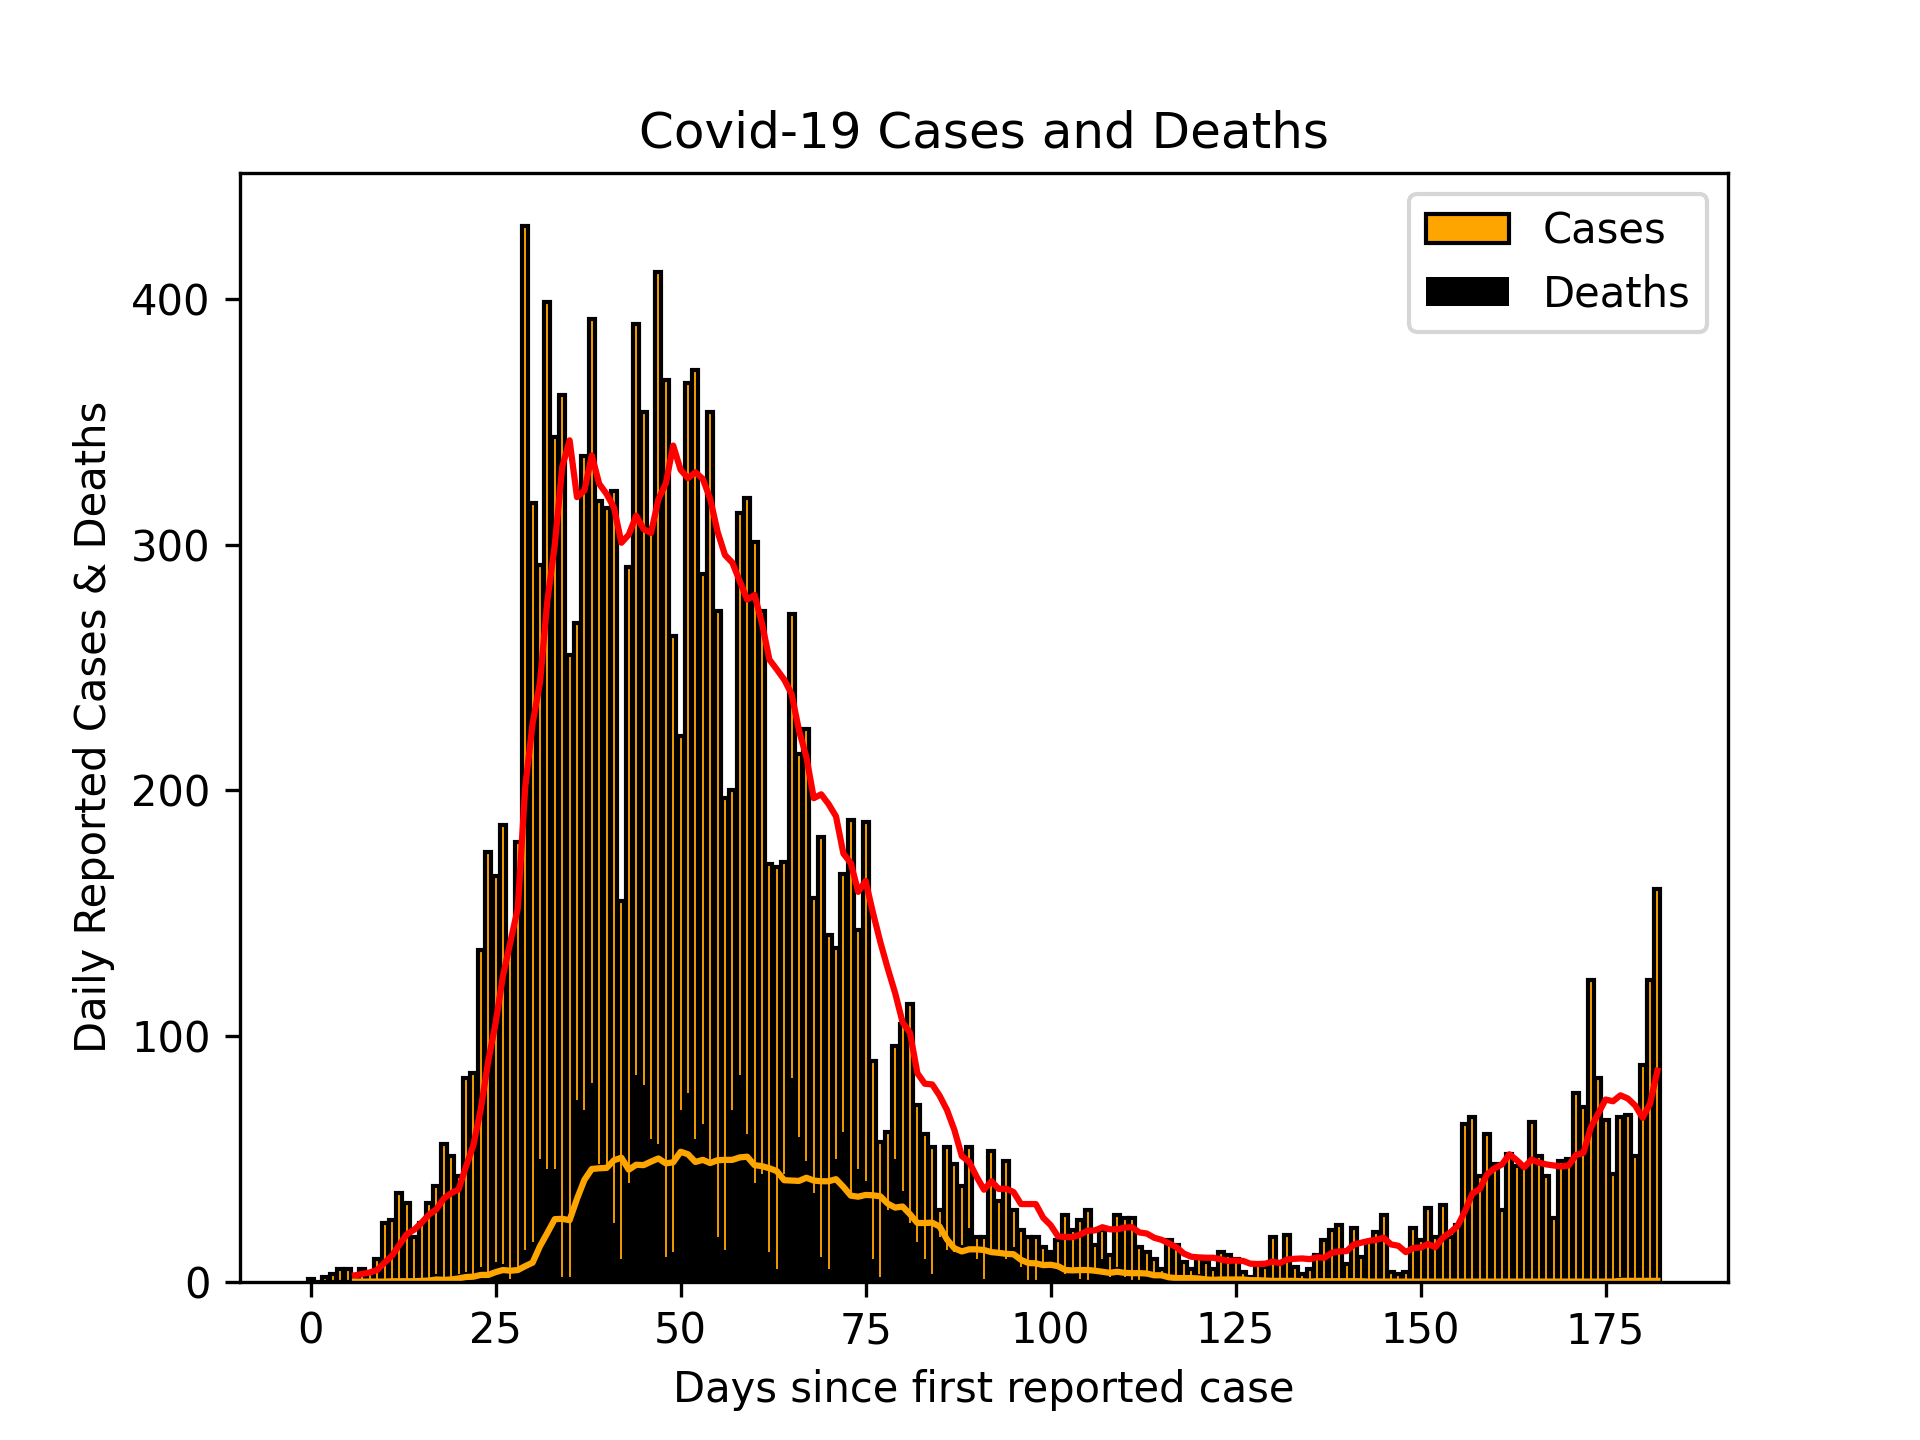
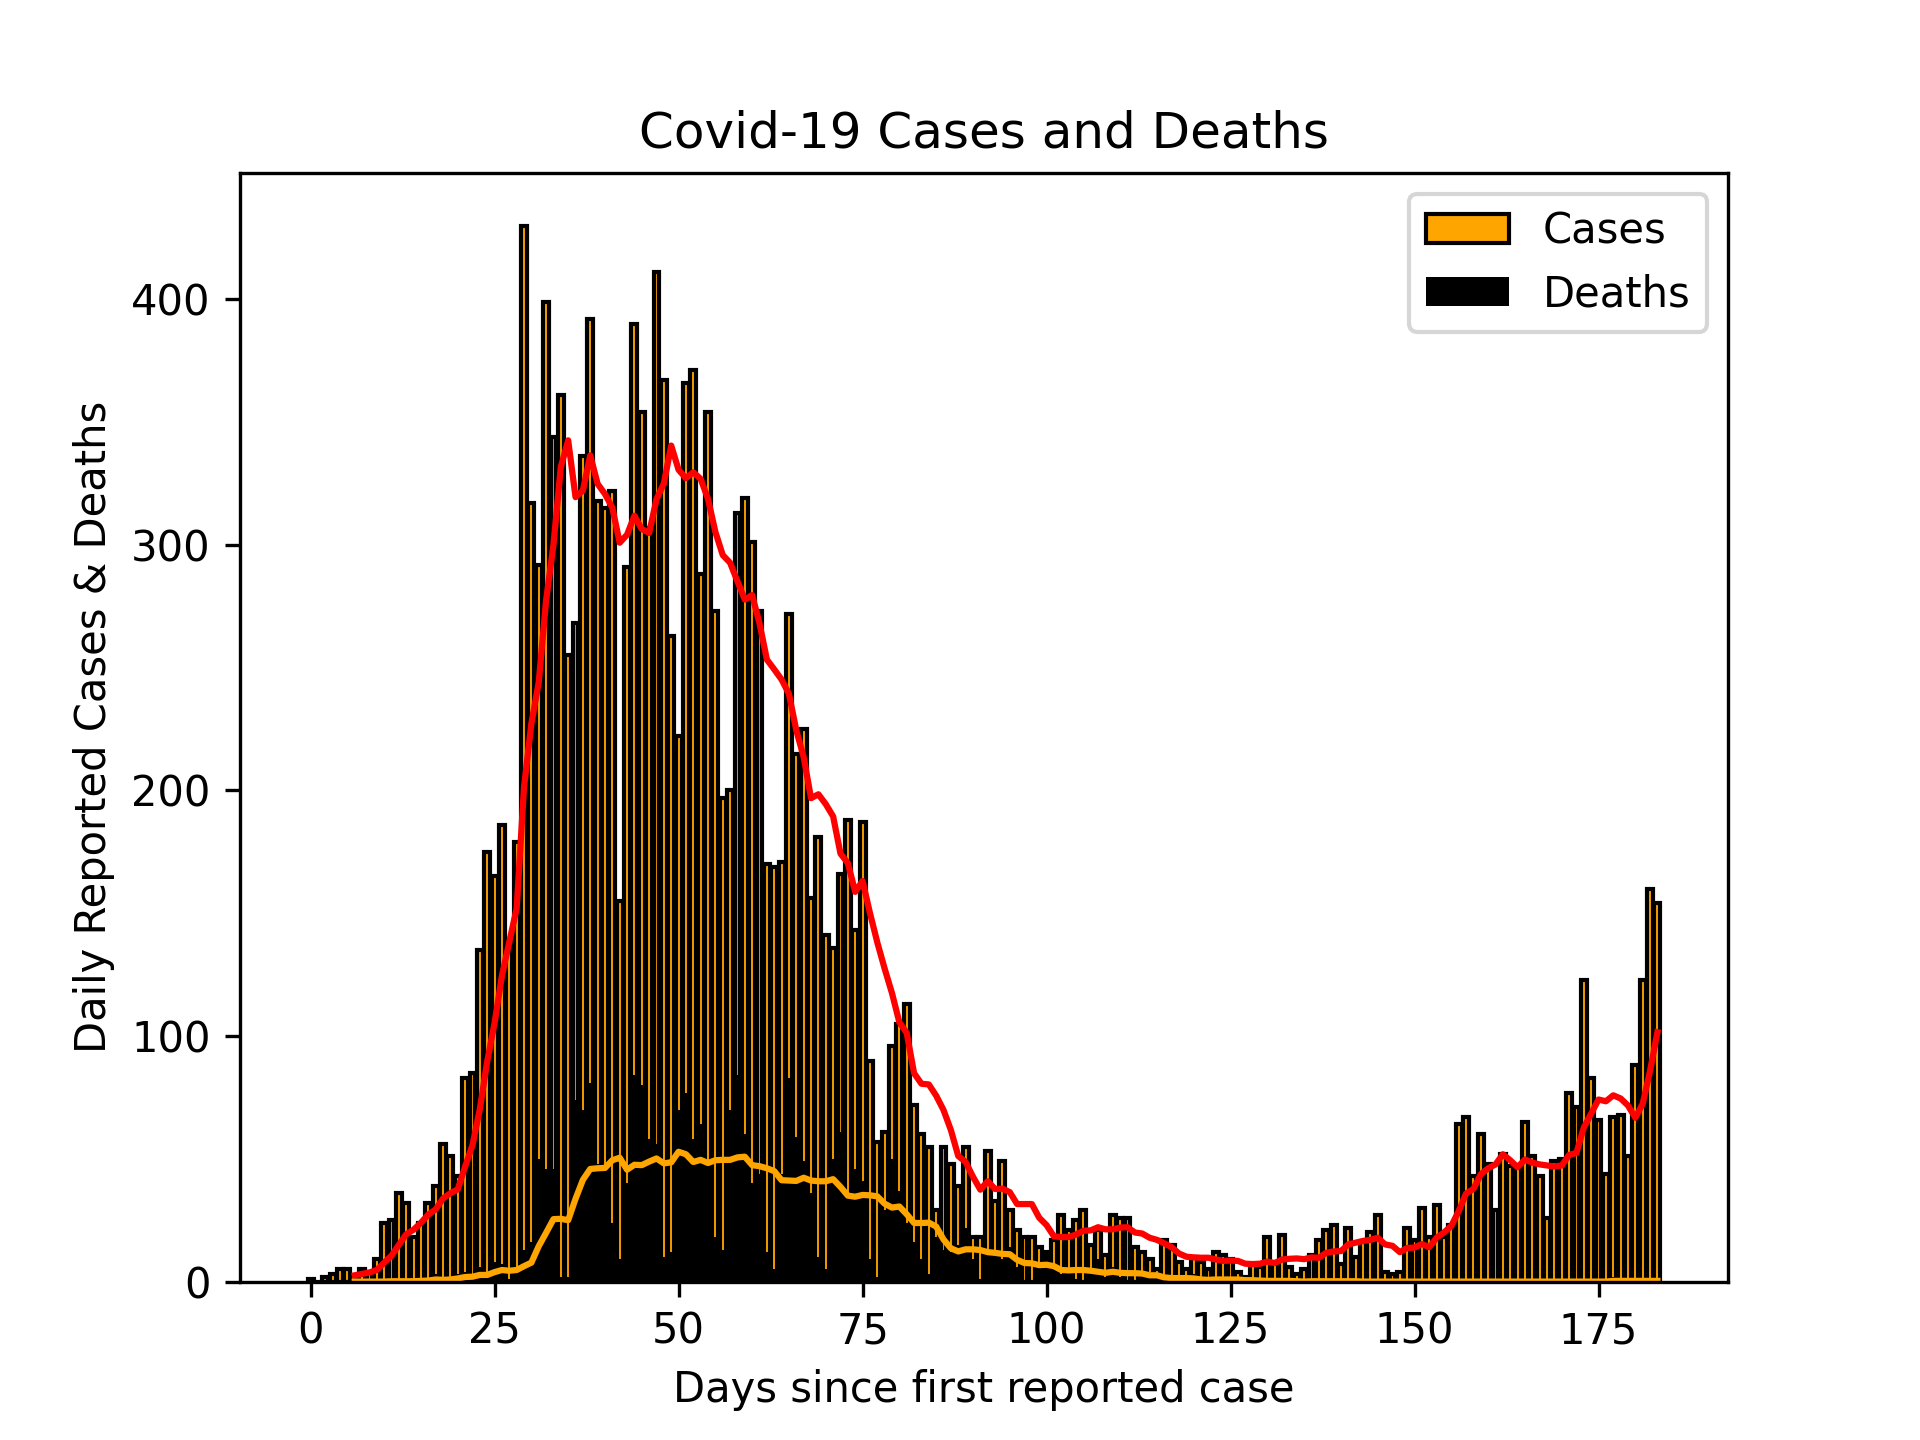
Updated Scottish cases 01/09/20

Changed region(s): [[0.1875, 0.2188, 0.875, 0.9375], [0.4375, 0.9062, 0.4688, 0.9375], [0.3438, 0.9062, 0.375, 0.9375]]

diff --git a/README.md b/README.md
@@ -1,3 +1,3 @@
-# Scottish Cases 31/08/20
+# Scottish Cases 01/09/20
 ![alt](scottish_cases.png)
 
